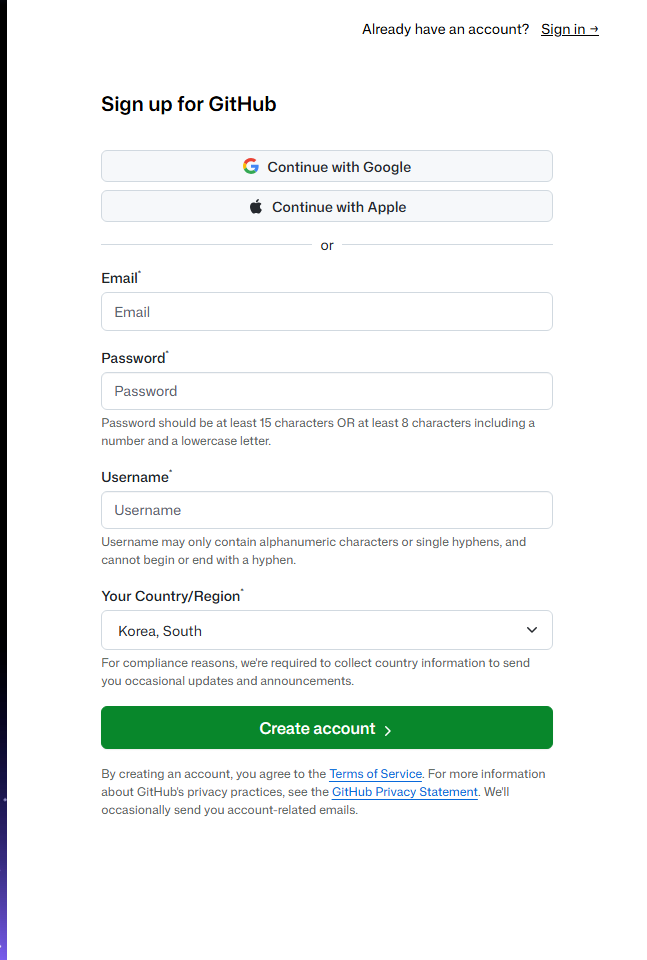
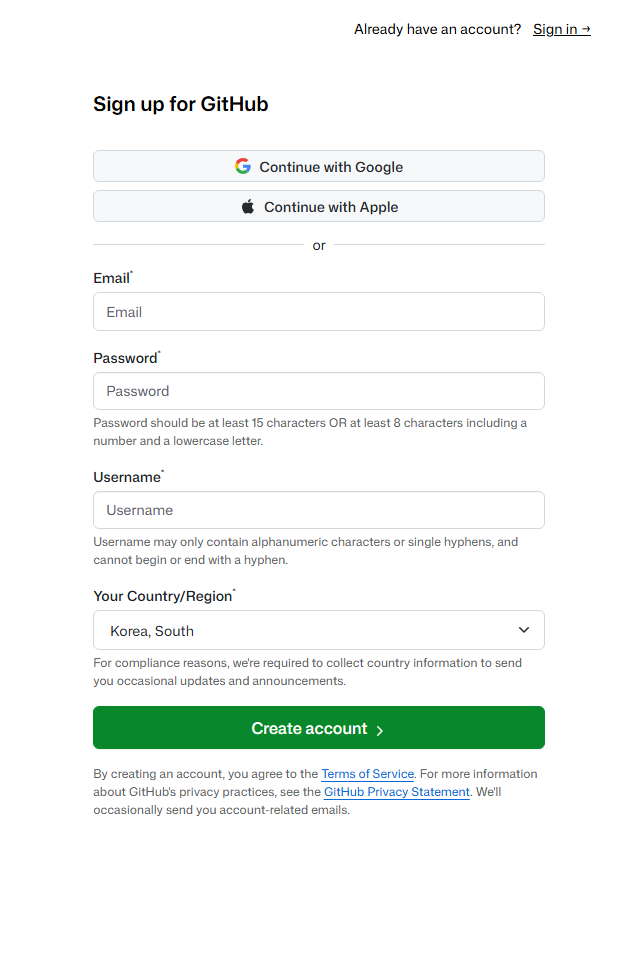
Polish screenshot visuals

diff --git a/발표자료/slide/index.html b/발표자료/slide/index.html
@@ -5,7 +5,7 @@
     <meta name="viewport" content="width=device-width, initial-scale=1" />
     <meta name="description" content="한성대학교 교수법 워크숍: AI 에이전트로 데이터 분석 및 발표자료 제작" />
     <title>한성대학교 교수법 워크숍 | AI 에이전트로 데이터 분석 및 발표자료 제작</title>
-    <link rel="stylesheet" href="./styles.css?v=mobile-fit-2" />
+    <link rel="stylesheet" href="./styles.css?v=screenshot-audit-1" />
   </head>
   <body>
     <main id="deck" class="deck" aria-live="polite">
@@ -42,6 +42,6 @@
       <button id="printBtn" class="control-button control-button--secondary" type="button">인쇄</button>
     </nav>
 
-    <script src="./app.js?v=mobile-fit-2"></script>
+    <script src="./app.js?v=screenshot-audit-1"></script>
   </body>
 </html>

diff --git a/발표자료/slide/app.js b/발표자료/slide/app.js
@@ -490,7 +490,7 @@ const slides = [
       ])}
       <div class="screenshot-layout screenshot-layout--signup">
         ${screenshotFigure(
-          "./assets/github-signup-form.png",
+          "./assets/github-signup-form.png?v=signup-crop-1",
           "GitHub 가입 화면: 이메일, 비밀번호, 사용자명, 국가/지역 입력 후 Create account 버튼을 누르는 공개 가입 양식",
           "github.com/signup 공개 가입 화면",
         )}